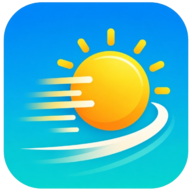
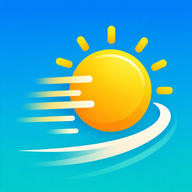
fix(ui): resolve card/button background blending and drop card hover retract

diff --git a/frontend/src/components/retroui/Card.tsx b/frontend/src/components/retroui/Card.tsx
@@ -10,7 +10,7 @@ const Card = ({ className, ...props }: ICardProps) => {
   return (
     <div
       className={cn(
-        "inline-block border-2 rounded shadow-md transition-all hover:shadow-none bg-card",
+        "inline-block border-2 rounded shadow-md bg-card",
         className,
       )}
       {...props}

diff --git a/frontend/src/components/ui/Modal.tsx b/frontend/src/components/ui/Modal.tsx
@@ -52,7 +52,7 @@ export function Modal({
               {secondaryActionLabel}
             </Button>
           ) : null}
-          <Button size="lg" className="w-full sm:w-auto" onClick={onAction}>
+          <Button size="lg" variant="secondary" className="w-full sm:w-auto" onClick={onAction}>
             {actionLabel}
           </Button>
         </div>

diff --git a/frontend/src/features/game/PlayPage.tsx b/frontend/src/features/game/PlayPage.tsx
@@ -212,6 +212,7 @@ export function PlayPage() {
                   </div>
                   <Button
                     size="lg"
+                    variant="secondary"
                     className="w-full sm:w-auto"
                     disabled={gameState !== "active" || submitting}
                   >
@@ -280,6 +281,7 @@ export function PlayPage() {
           >
             <Button
               size="lg"
+              variant="secondary"
               className="w-full sm:w-auto"
               onClick={handleStartGame}
               disabled={starting}

diff --git a/frontend/src/features/profile/ProfilePage.tsx b/frontend/src/features/profile/ProfilePage.tsx
@@ -84,7 +84,7 @@ export function ProfilePage() {
             </Card.Content>
           </Card>
 
-          <Card className="w-full min-w-0 border-border bg-[#141922] shadow-md sm:shadow-xl">
+          <Card className="w-full min-w-0 border-border bg-card-dark shadow-md sm:shadow-xl">
             <Card.Header className="border-b-2 border-border">
               <Card.Title className="text-white">Succès</Card.Title>
             </Card.Header>

diff --git a/frontend/src/features/stats/StatsPage.tsx b/frontend/src/features/stats/StatsPage.tsx
@@ -76,7 +76,7 @@ export function StatsPage() {
           </Card.Content>
         </Card>
 
-        <Card className="border-border bg-[#141922] shadow-md sm:shadow-xl">
+        <Card className="border-border bg-card-dark shadow-md sm:shadow-xl">
           <Card.Header className="border-b-2 border-border">
             <Card.Title className="text-white">Catégories les plus fortes</Card.Title>
             <Card.Description className="text-white/70">

diff --git a/frontend/src/index.css b/frontend/src/index.css
@@ -20,6 +20,7 @@
   --color-foreground: var(--foreground);
   --color-card: var(--card);
   --color-card-foreground: var(--card-foreground);
+  --color-card-dark: var(--card-dark);
   --color-popover: var(--popover);
   --color-popover-foreground: var(--popover-foreground);
   --color-primary: var(--primary);
@@ -46,6 +47,7 @@
   --foreground: #f5f5f5;
   --card: #ffffff;
   --card-foreground: #000000;
+  --card-dark: #212a40;
   --popover: #ffffff;
   --popover-foreground: #000000;
   --primary: #ffe45e;